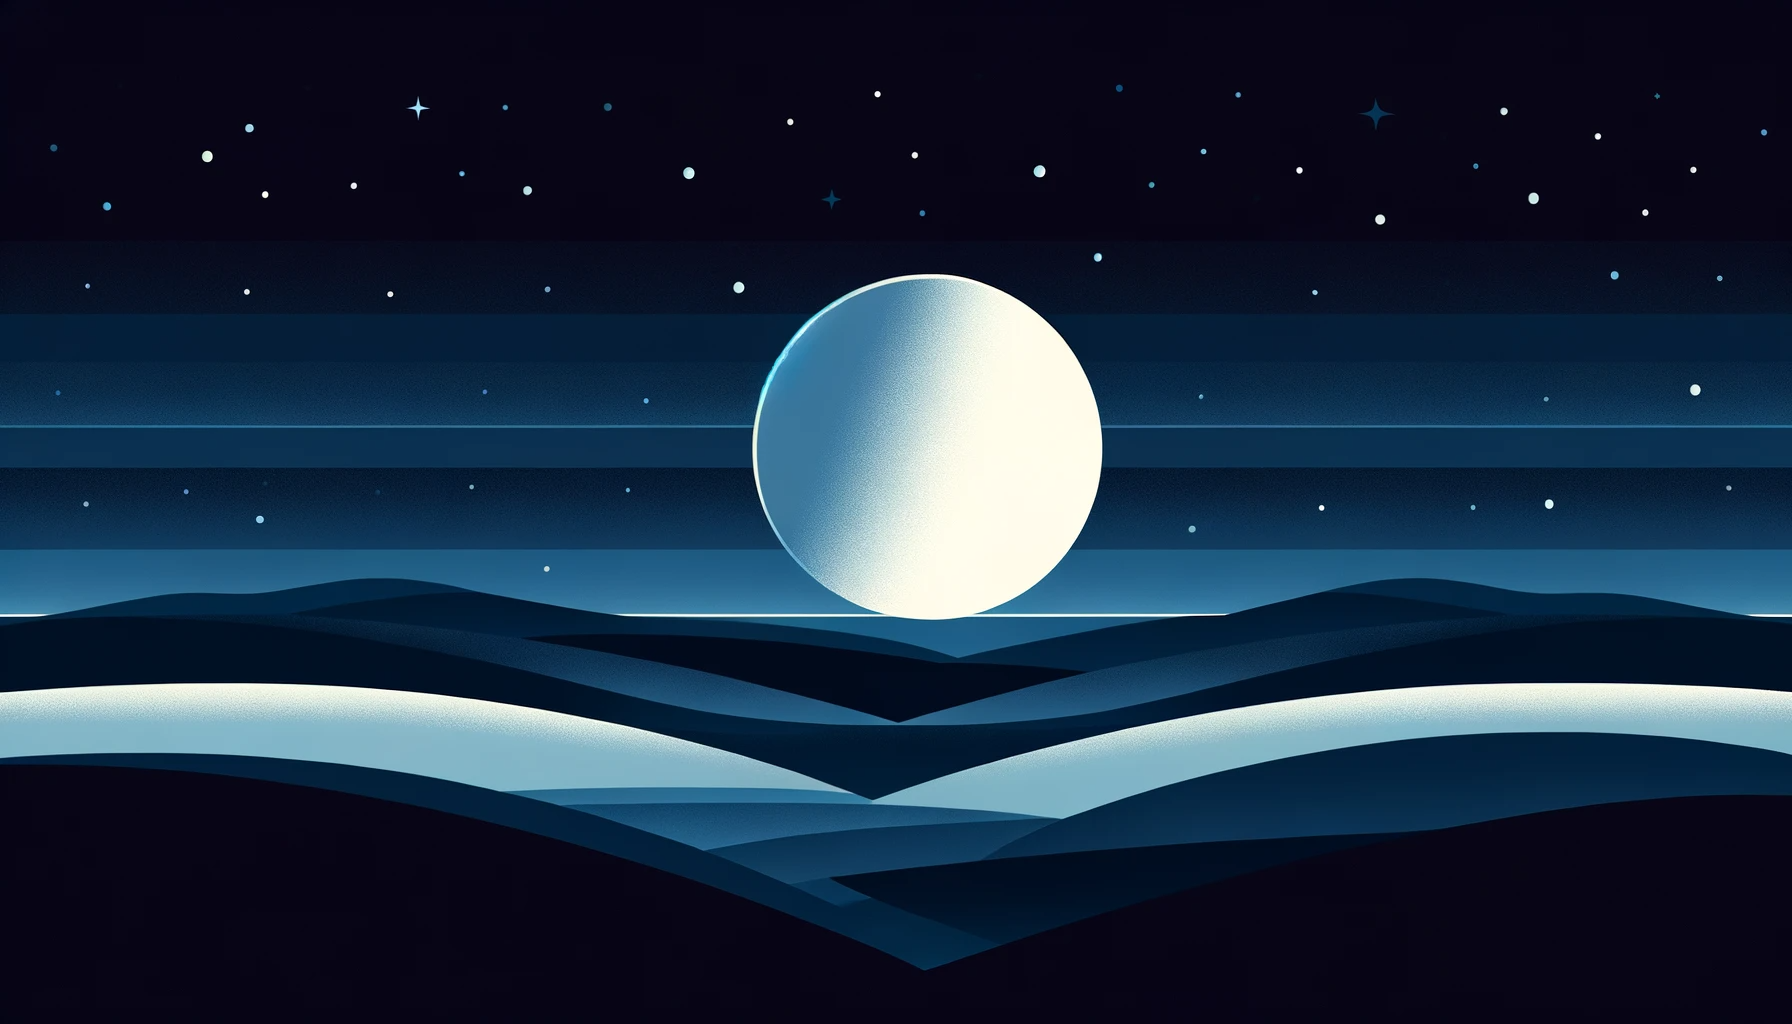
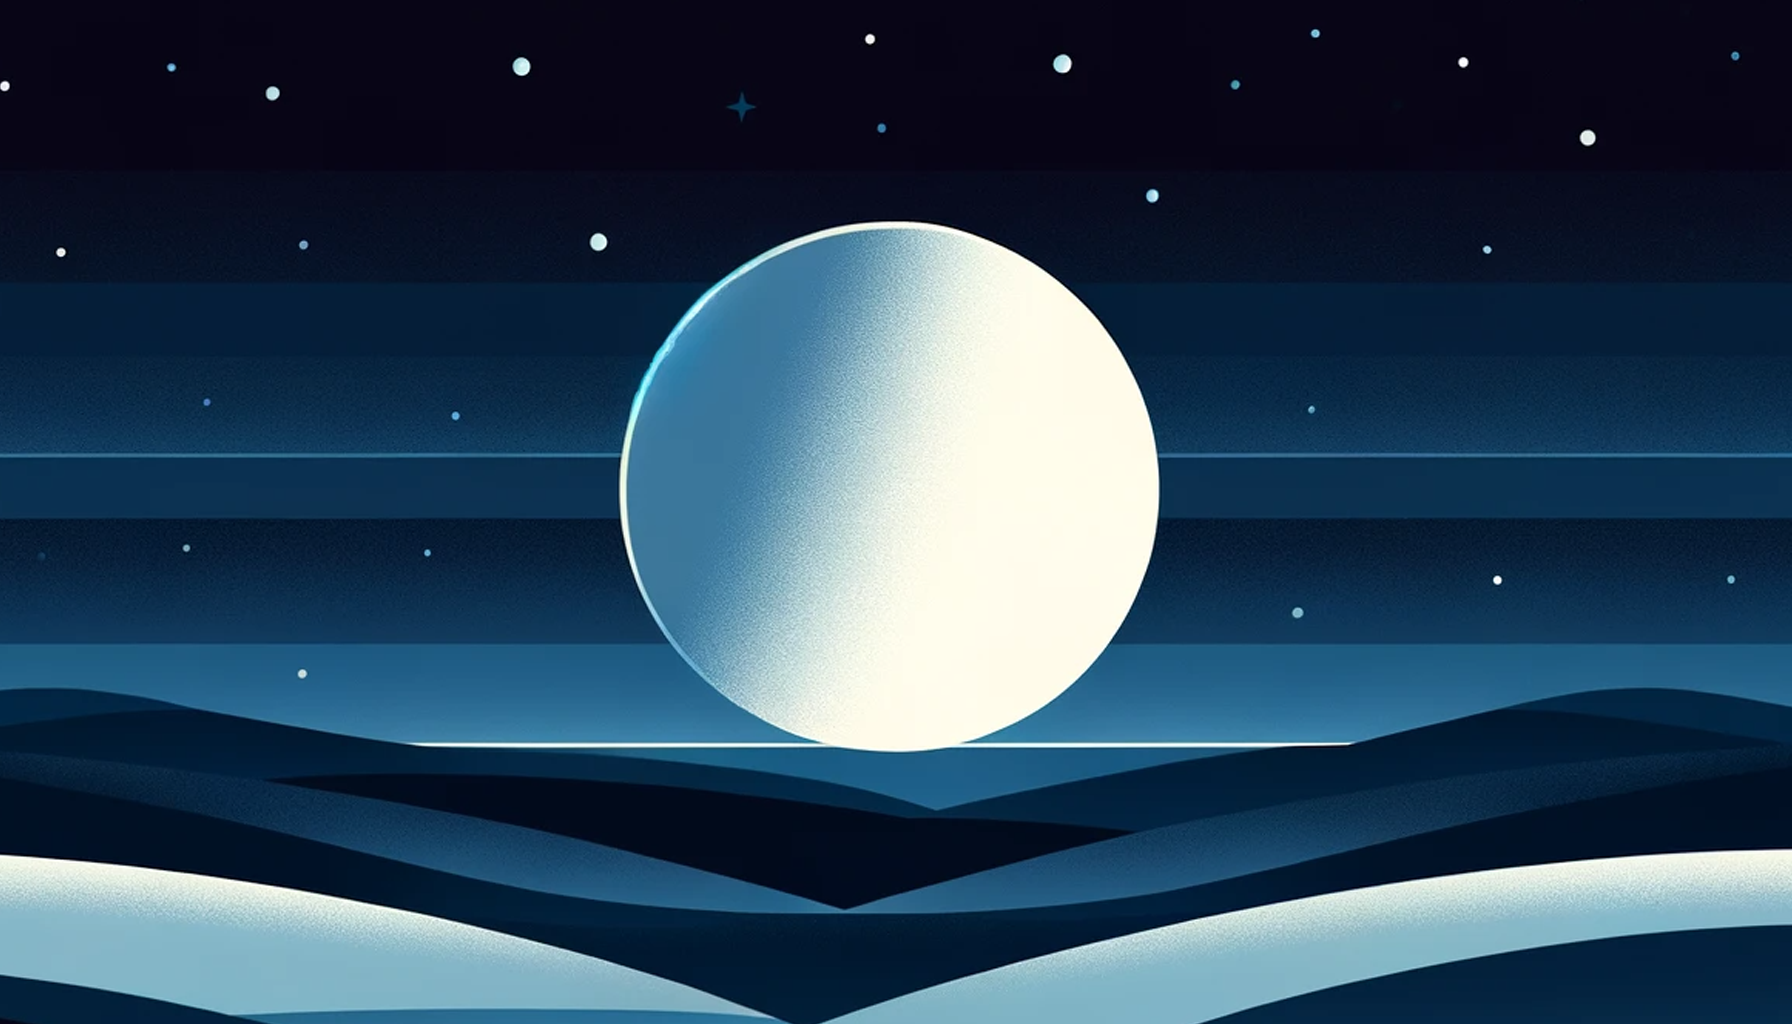
Student homepage changes depending on time of day

diff --git a/src/views/Home.vue b/src/views/Home.vue
@@ -1,11 +1,37 @@
 <template>
-  <main class="home-page">
+  <main class="home-page" :style="{ backgroundImage: 'url(' + backgroundImage + ')' }">
     <div class="main">
       <Greeting></Greeting>
       <NextMeeting></NextMeeting>
     </div>
   </main>
 </template>
+
+<script setup>
+import { ref, onMounted } from 'vue';
+import Greeting from "../components/Greeting.vue";
+import NextMeeting from "../components/NextMeeting.vue";
+import morningImage from '../assets/morning.png';
+import eveningImage from '../assets/evening.png';
+import aftennoonImage from '../assets/afternoon.png';
+
+const backgroundImage = ref(morningImage);
+
+function updateBackgroundImage() {
+  const hour = new Date().getHours();
+  if (hour >= 6 && hour < 12) {
+    backgroundImage.value = morningImage;
+  } else if (hour >= 12 && hour < 18) {
+    backgroundImage.value = aftennoonImage;
+  } else {
+    backgroundImage.value = eveningImage;
+  }
+}
+
+onMounted(() => {
+  updateBackgroundImage();
+});
+</script>
 
 <style>
 .home-page {
@@ -23,8 +49,3 @@
 .main {
 }
 </style>
-
-<script setup>
-import Greeting from "../components/Greeting.vue";
-import NextMeeting from "../components/NextMeeting.vue";
-</script>

diff --git a/src/components/Greeting.vue b/src/components/Greeting.vue
@@ -1,25 +1,35 @@
 <script setup>
-import {onMounted} from 'vue'
-import {useUserStore} from "../../auth.ts";
+import { onMounted, ref, computed } from 'vue';
+import { useUserStore } from '../../auth.ts';
 
-const userStore = useUserStore()
+const userStore = useUserStore();
+const currentTime = ref(new Date());
 
 onMounted(async () => {
-  await userStore.fetchUser()
-})
+  await userStore.fetchUser();
+});
+
+const getGreeting = computed(() => {
+  const hour = currentTime.value.getHours();
+  if (hour < 12) {
+    return 'Good Morning';
+  } else if (hour < 18) {
+    return 'Good Afternoon';
+  } else {
+    return 'Good Evening';
+  }
+});
 </script>
 
 <template>
-
-  <div v-if="userStore.user" className="greeting-container">
-    <h1>Good Afternoon, <br> <span>{{ userStore.user.first_name }}!</span></h1>
+  <div v-if="userStore.user" class="greeting-container">
+    <h1>{{ getGreeting }}, <br> <span>{{ userStore.user.first_name }}!</span></h1>
   </div>
-
 </template>
 
 <style scoped>
 span {
-  color: #2e89c9;
+  color: #076fb0;
 }
 
 .greeting-container {
